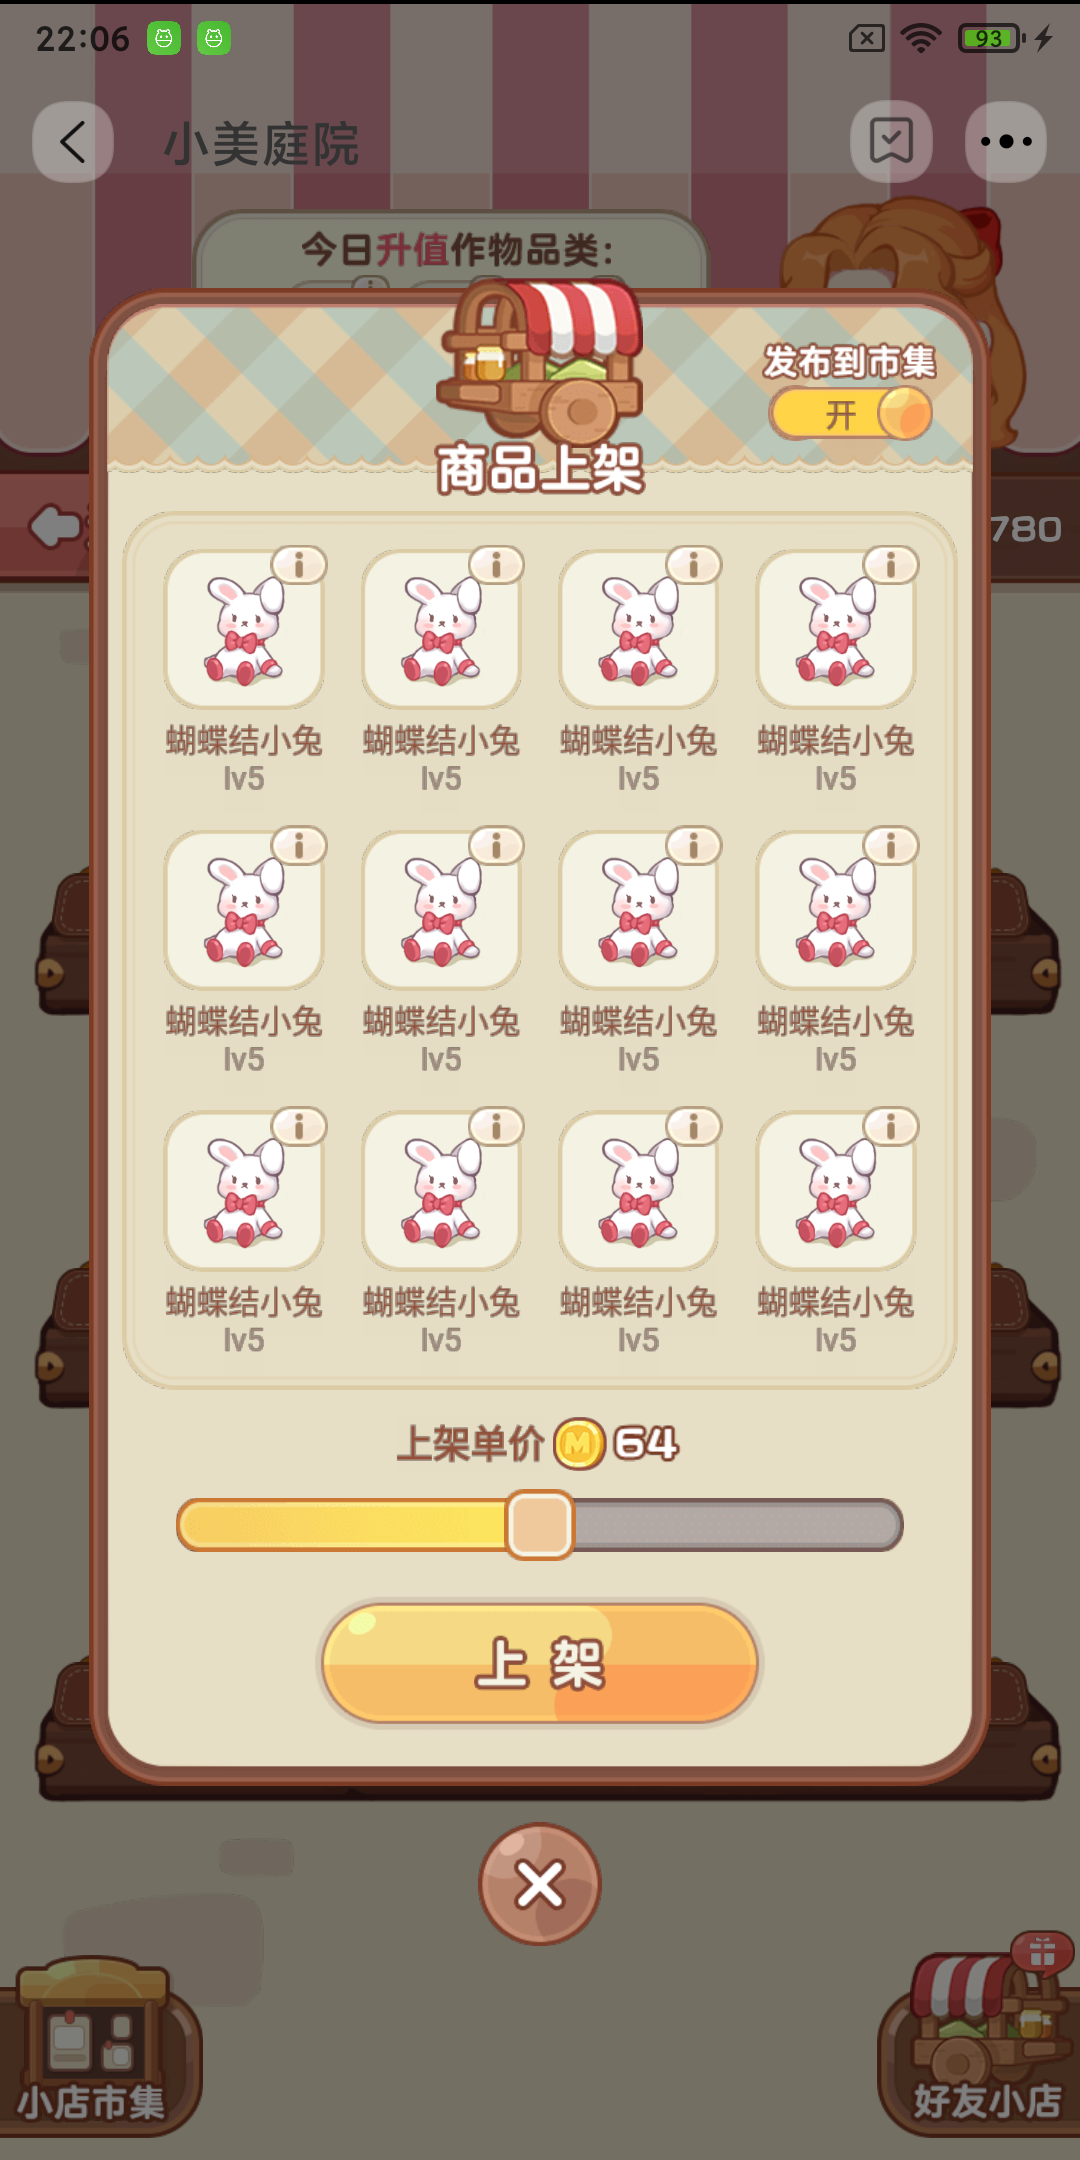
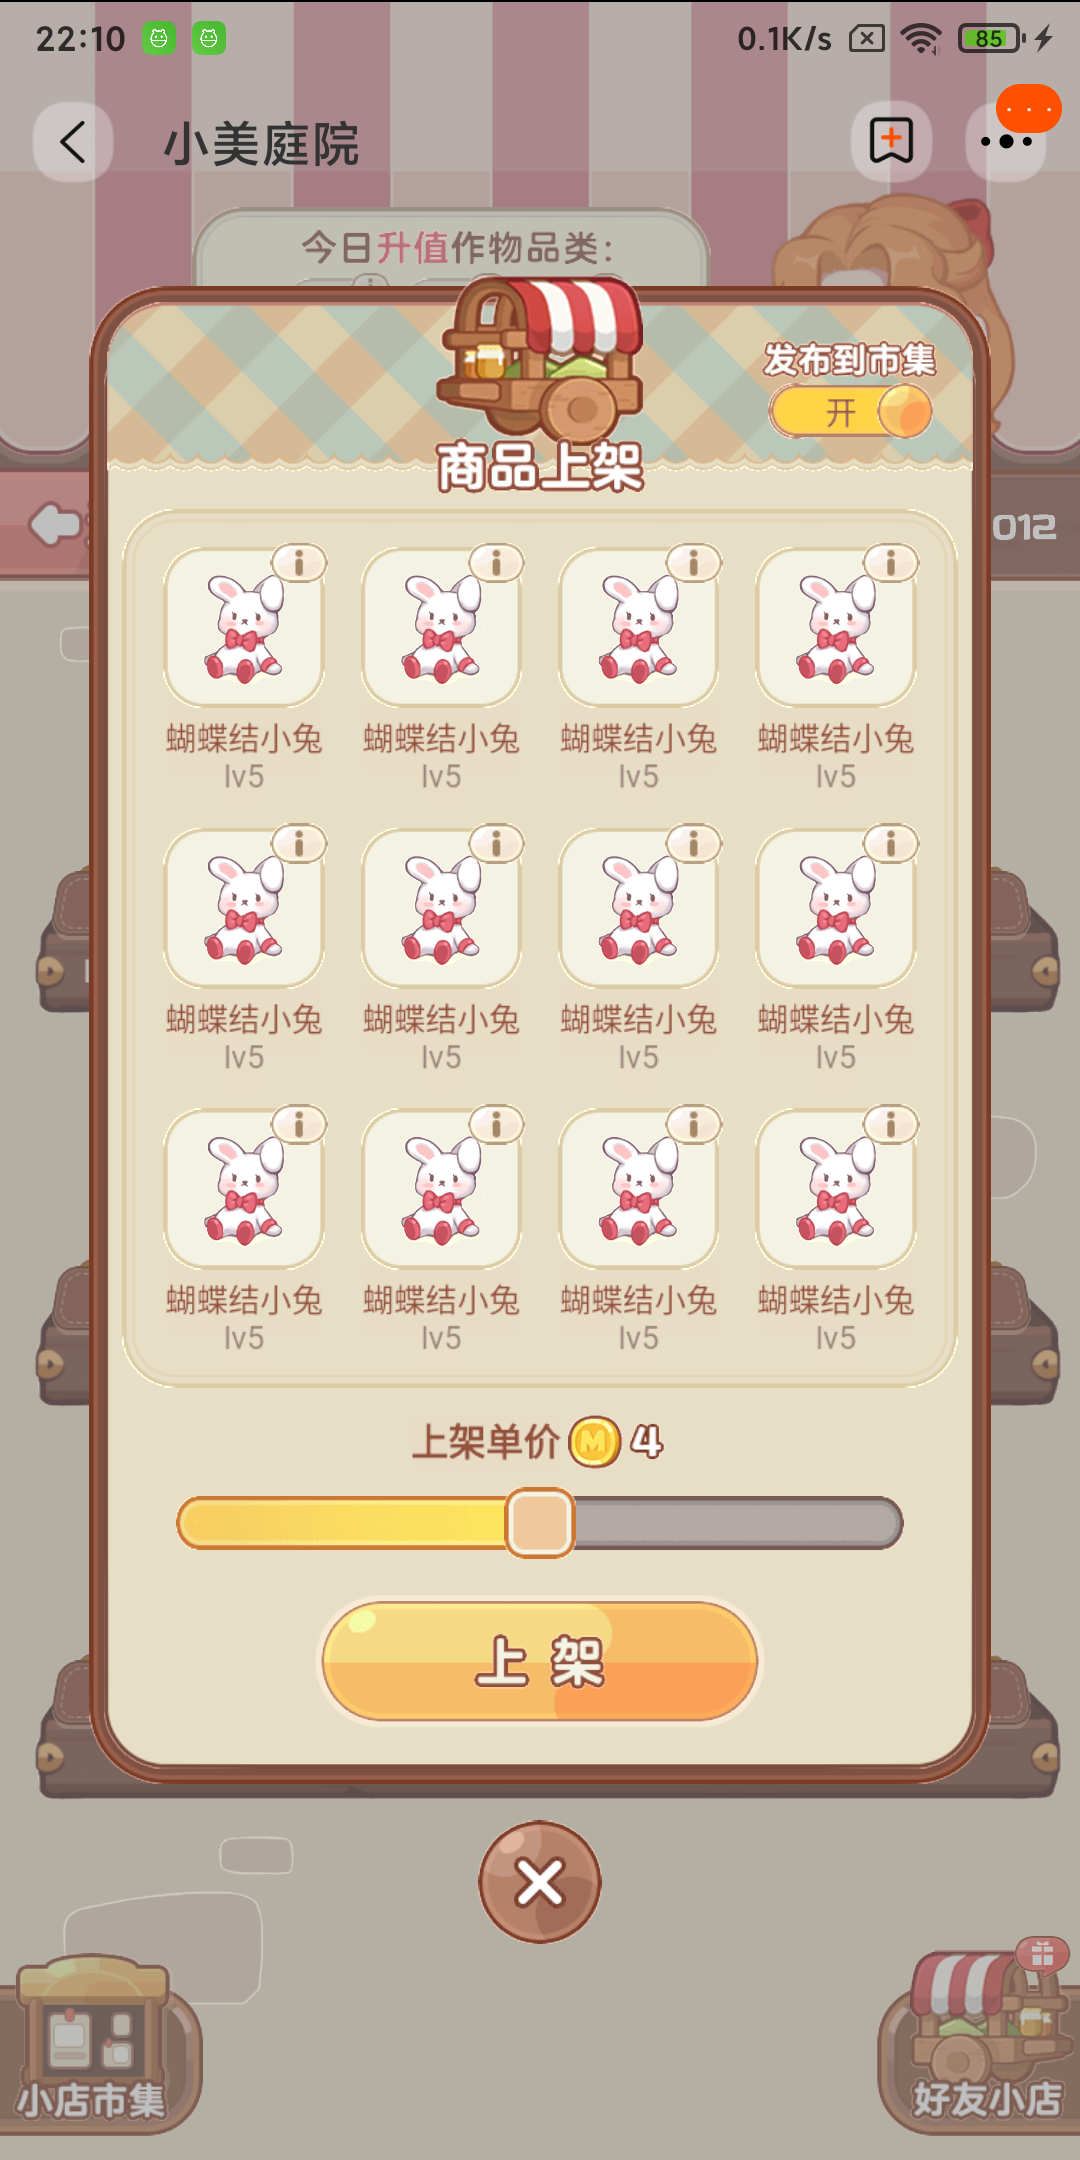
init

diff --git a/index.js b/index.js
@@ -1488,6 +1488,12 @@ const main = async () => {
     return;
   }
 
+  await click(380, 1850);
+  await click(550, 1950);
+  await sleep();
+  await click(380, 1680);
+  await click(530, 1800);
+
   const factoryX = FACTORY_X;
   const factoryY = FACTORY_Y;
   let refresh = false;
